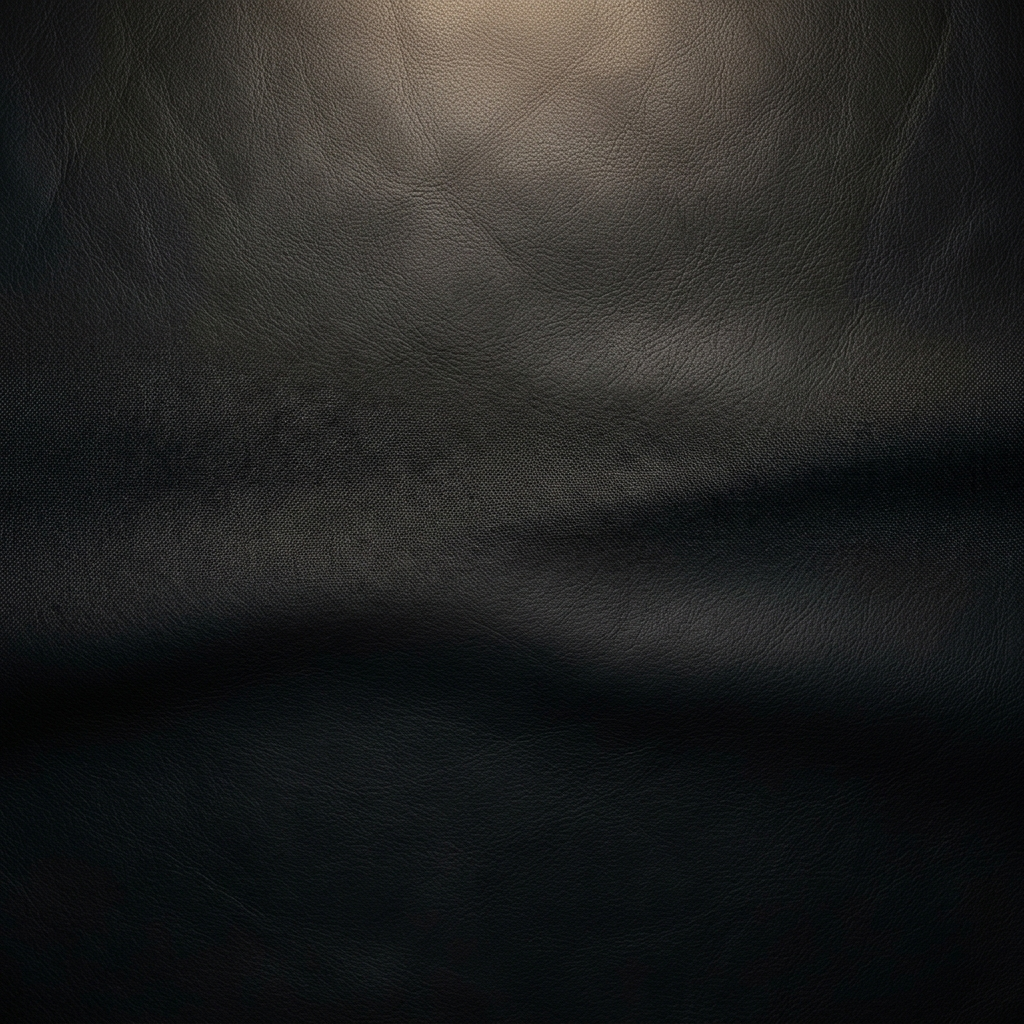
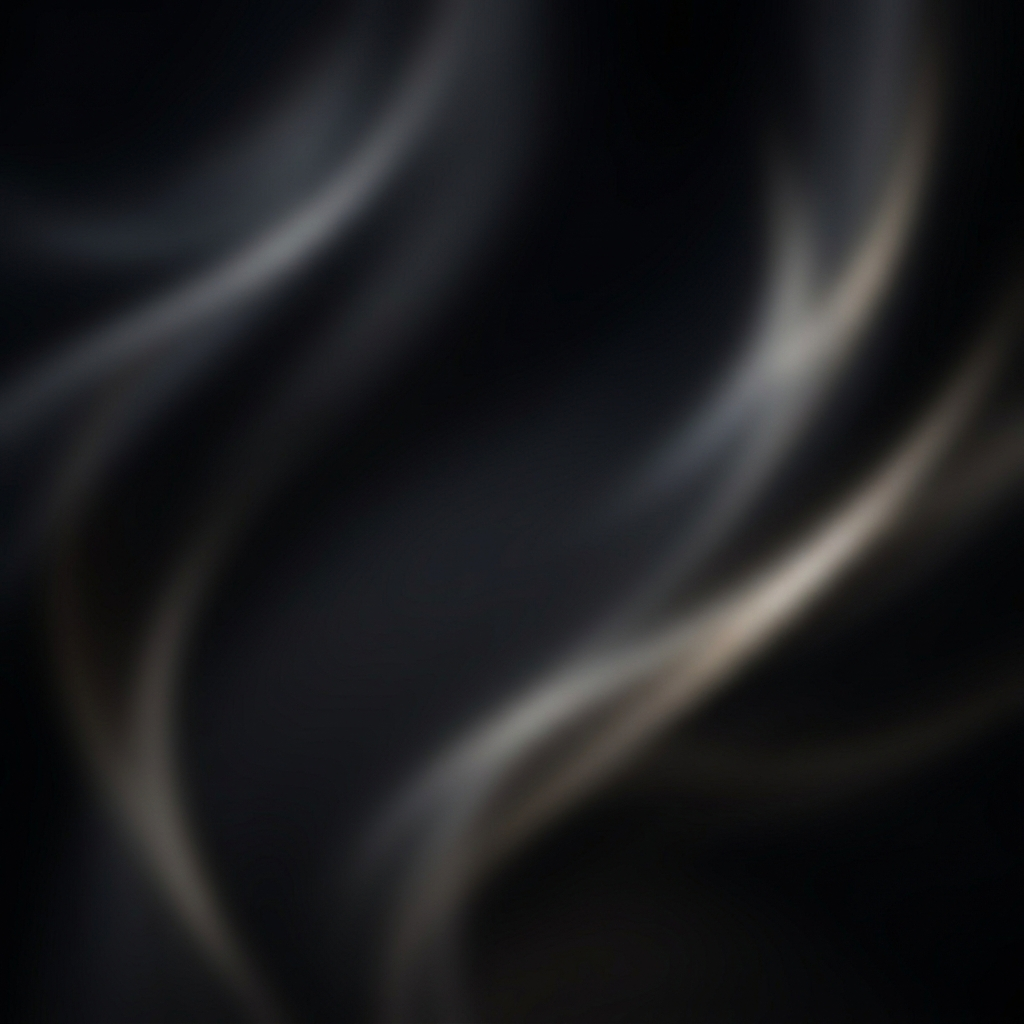
style: update background to premium dark elegant abstract texture

diff --git a/style.css b/style.css
@@ -31,9 +31,12 @@ body {
     position: fixed;
     top: 0;
     left: 0;
-    width: 100%;
-    height: 100%;
-    background: url('assets/background.png') center/cover no-repeat;
+    width: 100vw;
+    height: 100vh;
+    background-image: url('assets/background.png?v=v5');
+    background-size: cover;
+    background-position: center;
+    background-repeat: no-repeat;
     filter: brightness(0.4);
     z-index: -1;
 }
